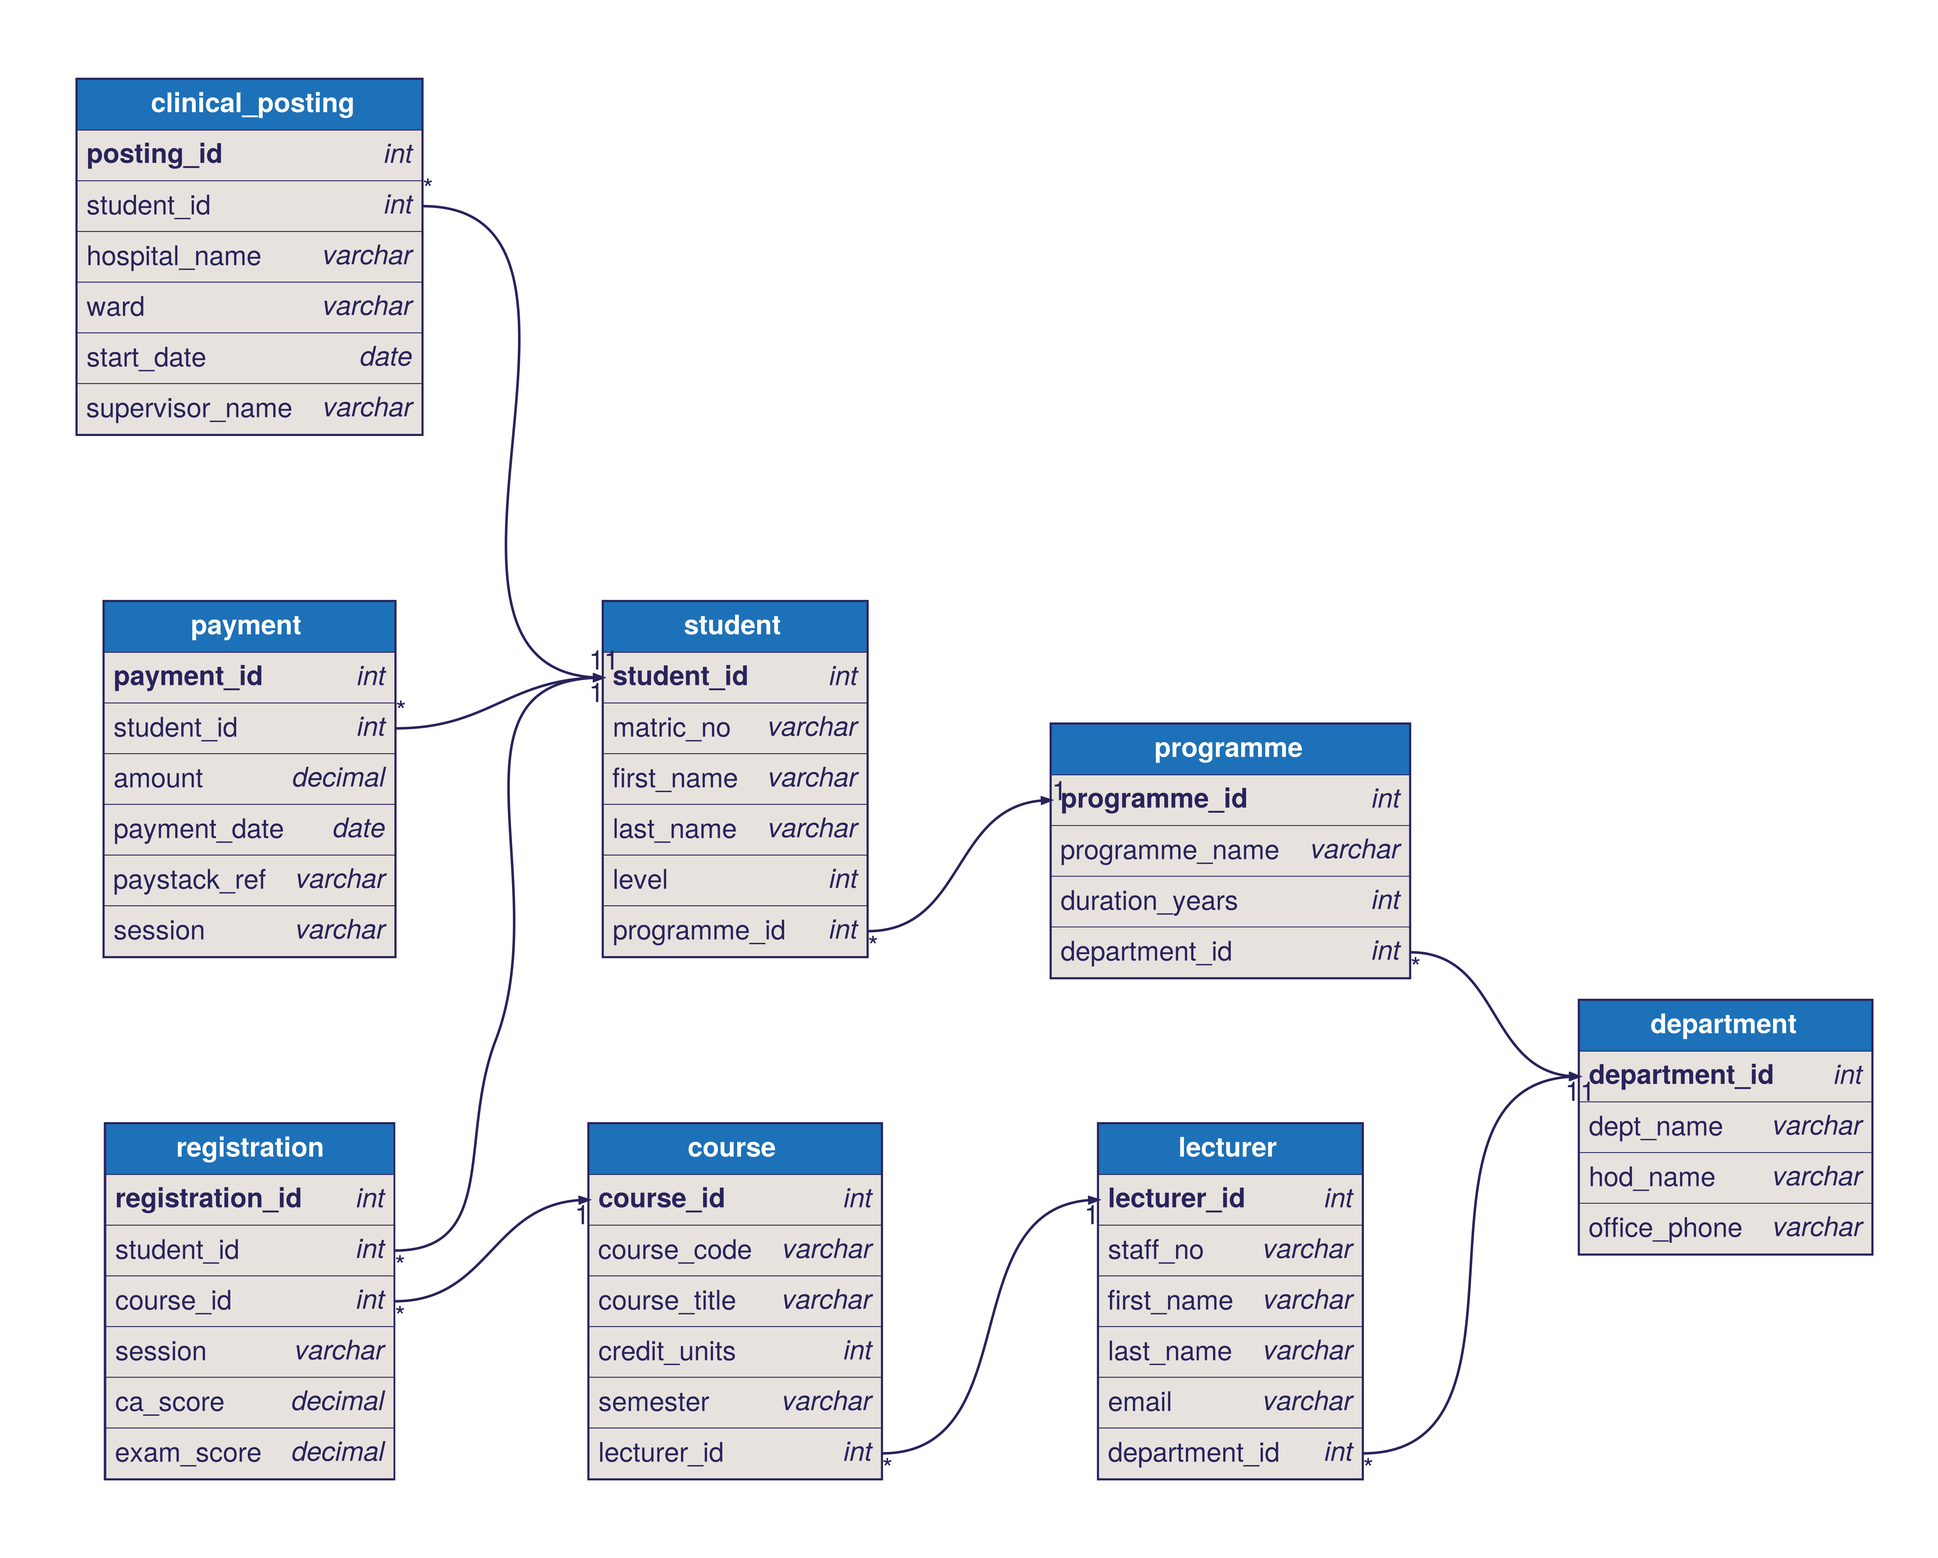
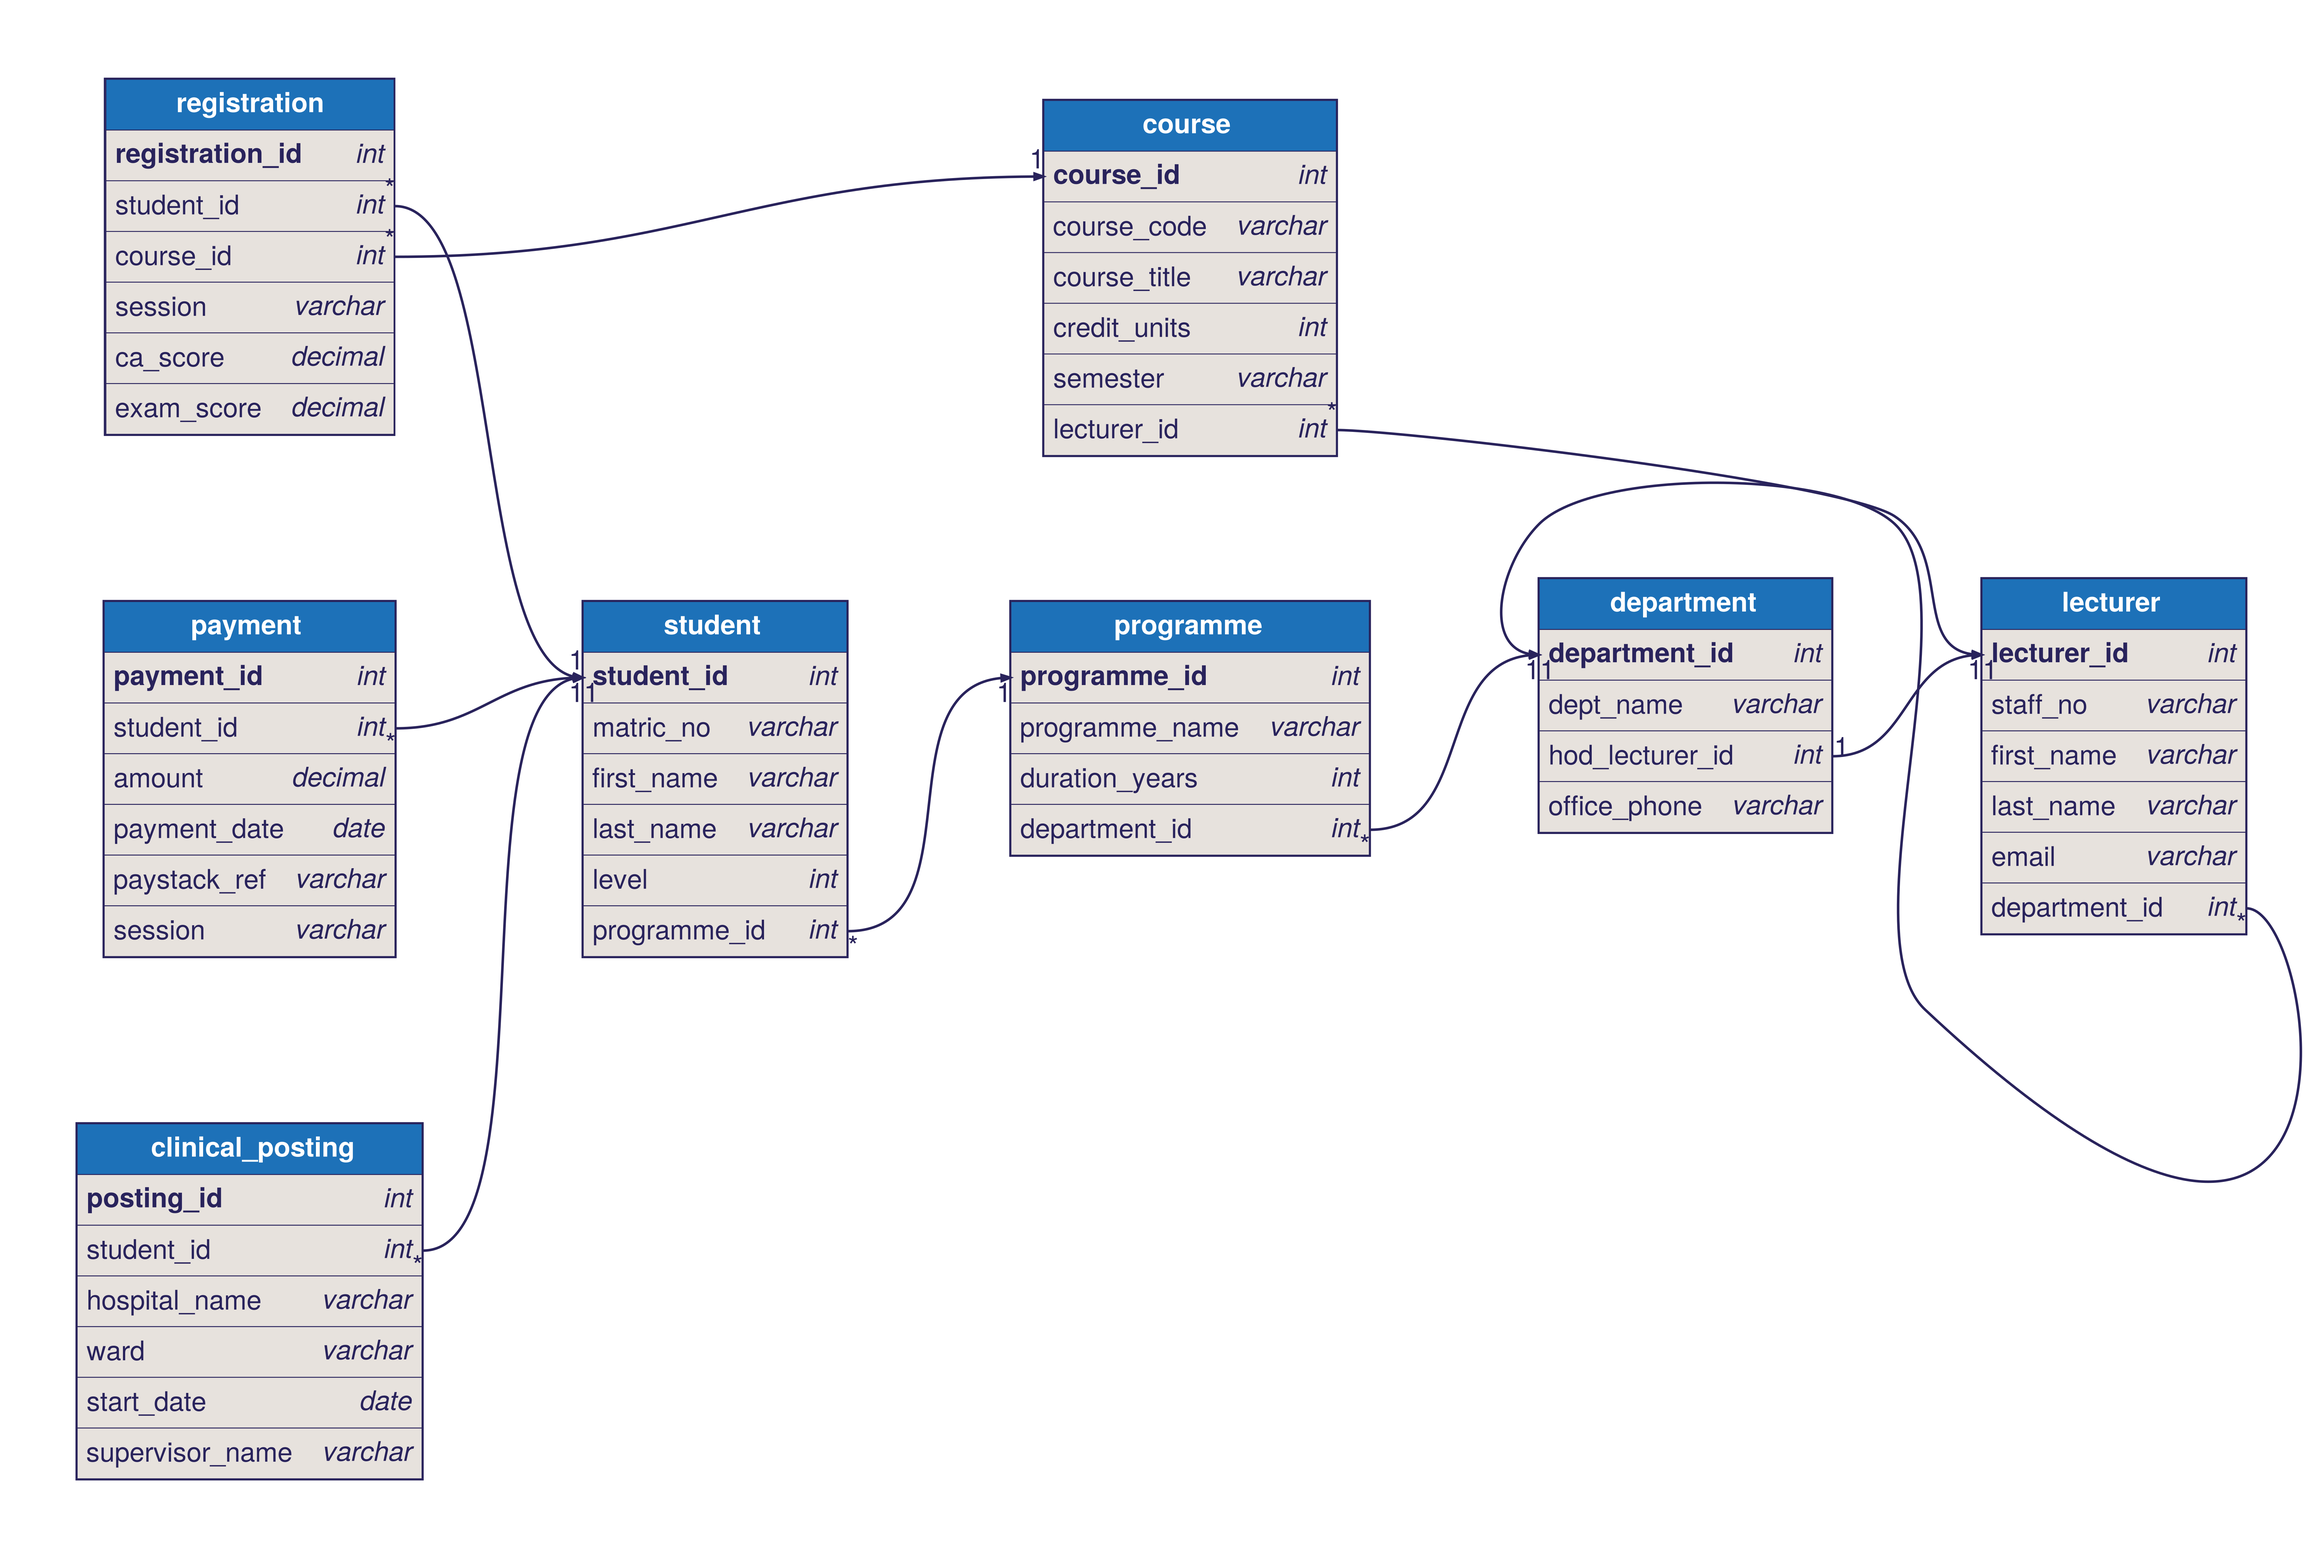
Add normalisation write-up; replace hod_name with hod_lecturer_id; update ERD

diff --git a/portfolio-1-database-design/notes.md b/portfolio-1-database-design/notes.md
@@ -1,5 +1,9 @@
 # Portfolio 1 – Database Design (OCNS)
 
+![OCNS ER diagram](ocns-erd.png)
+
+ERD source code (dbdiagram.io / DBML): [ocns.dbml](ocns.dbml)
+
 ## Step 3: Tables
 
 ### 1. DEPARTMENT
@@ -8,7 +12,7 @@
 |---|---|
 | department_id | PK |
 | dept_name | |
-| hod_name | |
+| hod_lecturer_id | FK → LECTURER (Head of Department) |
 | office_phone | |
 
 ### 2. PROGRAMME
@@ -64,6 +68,8 @@
 | ca_score | |
 | exam_score | |
 
+(student_id, course_id, session) is UNIQUE – a student can register for a course only once per session.
+
 ### 7. PAYMENT
 
 | Column | Key |
@@ -92,8 +98,22 @@
 |---|---|---|
 | One DEPARTMENT has many PROGRAMMES | 1 : M | PROGRAMME.department_id |
 | One DEPARTMENT has many LECTURERS | 1 : M | LECTURER.department_id |
+| One LECTURER heads one DEPARTMENT | 1 : 1 | DEPARTMENT.hod_lecturer_id |
 | One PROGRAMME has many STUDENTS | 1 : M | STUDENT.programme_id |
 | One LECTURER teaches many COURSES | 1 : M | COURSE.lecturer_id |
 | Many STUDENTS take many COURSES (resolved by REGISTRATION) | M : N | REGISTRATION.student_id + REGISTRATION.course_id |
 | One STUDENT makes many PAYMENTS | 1 : M | PAYMENT.student_id |
 | One STUDENT has many CLINICAL_POSTINGS | 1 : M | CLINICAL_POSTING.student_id |
+
+## Normalisation
+
+**1NF – one value per box.**
+I checked every column for lists or repeating groups. Each cell holds a single value: one phone number in `office_phone`, one hospital and one ward per clinical posting, one score per column in REGISTRATION. Names are already split into `first_name` and `last_name`, and a student's courses are not kept as a list in STUDENT – each course taken is its own row in REGISTRATION. Every table has a primary key, so no two rows are identical. Nothing needed fixing.
+
+**2NF – every detail depends on the whole key.**
+2NF only matters where a key has more than one part. REGISTRATION is identified by the combination (student_id, course_id, session). I checked each of its other columns: `ca_score` and `exam_score` depend on all three together – a particular student, in a particular course, in a particular session. Course details such as `course_title` and `credit_units` (which depend on course_id alone) and student details such as `matric_no` (which depend on student_id alone) are kept out of REGISTRATION and live only in COURSE and STUDENT. **Fix:** I added a UNIQUE rule on (student_id, course_id, session) so the same registration cannot be entered twice, while `registration_id` stays as a simple surrogate PK.
+
+**3NF – no details about other details.**
+I looked for any column that describes a different table rather than the row's own key. STUDENT holds only `programme_id`, not the programme name; COURSE holds only `lecturer_id`, not the lecturer's name; PAYMENT and CLINICAL_POSTING hold only `student_id`. **Problem found:** DEPARTMENT stored `hod_name`. The Head of Department is a lecturer, so their name was already stored in LECTURER – it would be written twice and could go out of date when the HOD changes. **Fix:** I replaced `hod_name` with `hod_lecturer_id` (FK → LECTURER), so the name is stored once and looked up. I also considered `hospital_name` in CLINICAL_POSTING: it repeats across postings, but since no other hospital facts (address, contact) are stored, it does not create a transitive dependency. If OCNS later records hospital details, a separate HOSPITAL table should be created.
+
+**Result:** my schema is in 3NF because every cell holds a single value (1NF), every non-key column depends on the whole of its table's key (2NF), and no non-key column depends on another non-key column – each fact (a programme name, a course title, a lecturer's name) is stored in exactly one table and is reached from other tables through foreign keys (3NF). The ERD (`ocns-erd.png`) has been updated to show the HOD change.
